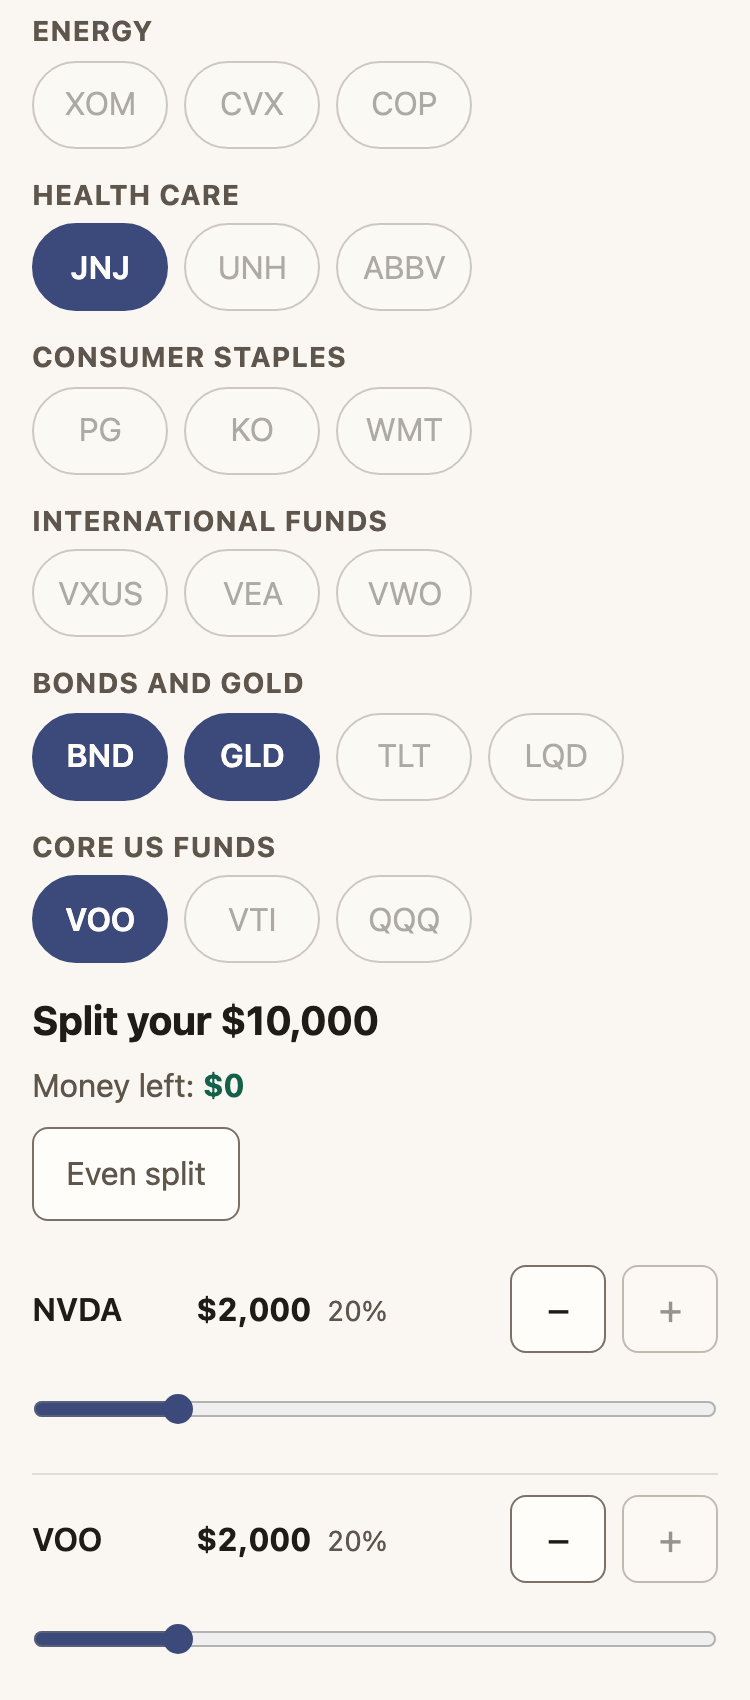
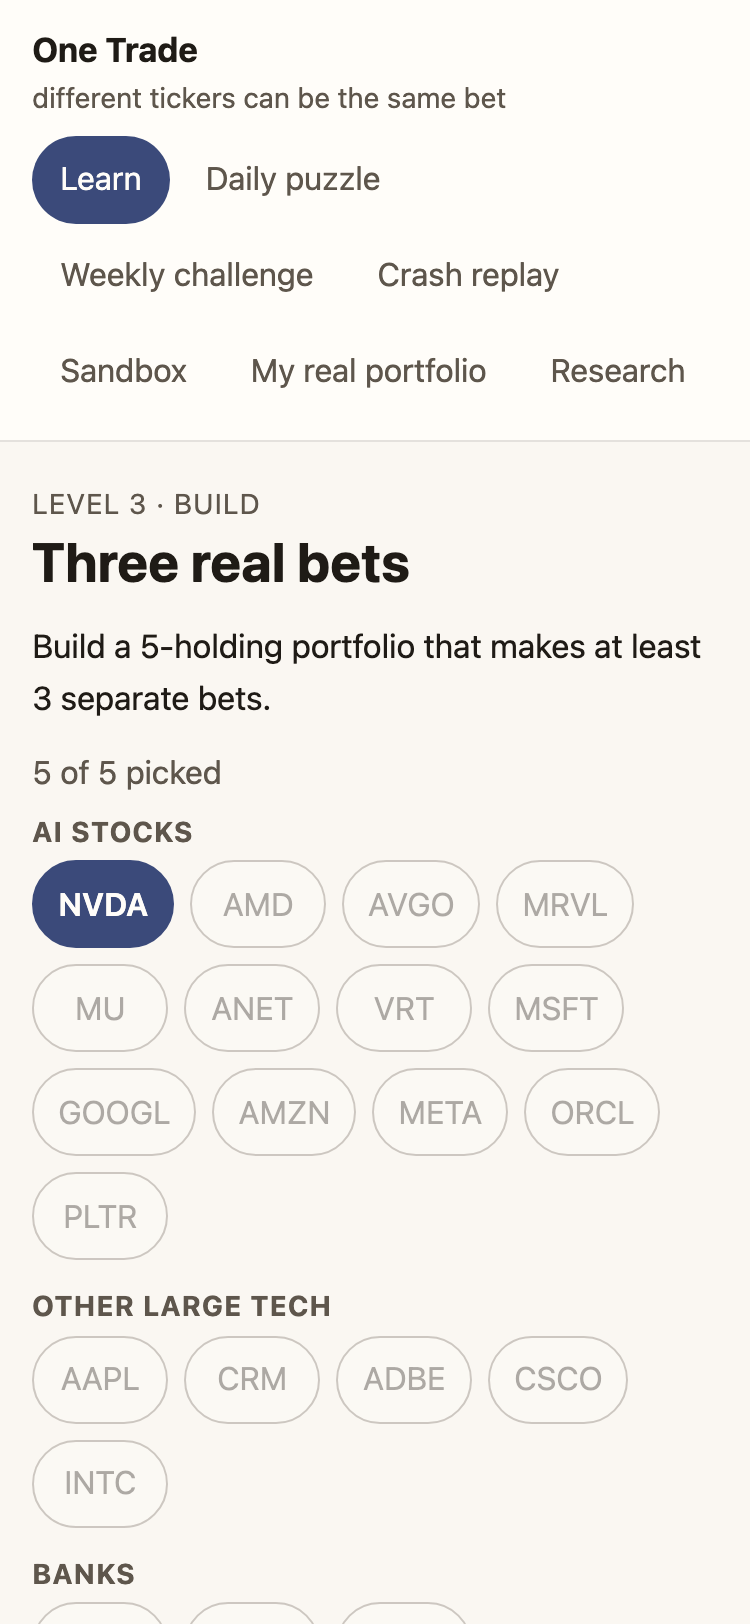
Launch review: fix the number line's labels, the star-rule grammar, and date the window
The number line's labels, dots and track all sat in one vertical band -
labels at top 24px against dots spanning 26 to 50 - so the only thing
keeping a label off a marker was a 6px nudge against a dot reaching
12px either side of its centre. A label's width depends on the number
in it, so no horizontal offset fixes that in general; the labels move
to their own band at top 56px, below the dots and the threshold tick.

Checked first, in a real browser: dev_checks.mjs now sweeps twelve
guess/answer pairs at 375px and 1280px and intersects every box. 0
clear and 24 overlapping before, 24 clear and 0 overlapping after. The
pairs include equal values, a hair apart, opposite ends, both edges and
both on the threshold tick.

Star rules were broken in two frames, not one: "1 star for make a
guess" as reported, and "2 stars needed named the right bucket" on
four levels. Fixed in levels.json with gerunds, which read correctly in
all five frames js/game.js uses. Two new tests hold the rule rather
than the strings.

shots.mjs gains --scroll-top so a --fold capture opens at the top of a
screen rather than wherever the scene's last click left it; both README
screenshots retaken with it and with the label fix.

docs/PRD.md now dates the launch window - launch 26 November 2026,
collection closes 25 January 2027, last safe export 14 February 2027 -
and notes that /guess went live a day after Pages, so the window is a
day conservative.

diff --git a/tests/levels.test.js b/tests/levels.test.js
@@ -740,3 +740,60 @@ test('the named level 6 builds still give the answers written down beside them',
     'the same shape with different stocks in it should be several times apart');
   assert.equal(LEVEL6_BUILDS.length, 6);
 });
+
+// ------------------------------------------------- the star rules, as sentences
+//
+// THE STRINGS ARE NOT READ ALONE. js/game.js drops every `says` into five
+// different sentence frames - "1 star for X", "2 for X", "2 stars needed X",
+// "N needs X" and "No stars this time: X is what this level needs" - so a value
+// that reads fine by itself can still be ungrammatical in all five. Level 2's
+// "make a guess" rendered as "1 star for make a guess", and levels 1, 4, 5 and
+// 6 rendered "2 stars needed named the right bucket".
+//
+// THE RULE: a `says` value is a noun phrase, so it fits after "for", after
+// "needed", and in front of "is what this level needs". In practice that means
+// it opens with a determiner, a preposition, a number word - or a gerund, which
+// is how a verb becomes a noun phrase.
+
+/** Words a noun phrase may open with here. Not a grammar, a house style. */
+const PHRASE_OPENERS = new Set([
+  'a', 'an', 'the', 'no', 'any', 'all', 'both', 'each', 'every', 'half',
+  'at', 'within', 'under', 'over', 'above', 'below', 'between',
+  'one', 'two', 'three', 'four', 'five', 'six', 'seven', 'exactly', 'nothing',
+]);
+
+/** Every `says` in levels.json, with a name saying where it came from. */
+function everySays(doc) {
+  const found = [];
+  for (const level of doc.levels) {
+    if (level.pass?.says) found.push({ where: `level ${level.id} pass`, says: level.pass.says });
+    for (const band of ['two', 'three']) {
+      const says = level.stars?.[band]?.says;
+      if (says) found.push({ where: `level ${level.id} stars.${band}`, says });
+    }
+  }
+  if (doc.weekly?.pass?.says) found.push({ where: 'the weekly challenge', says: doc.weekly.pass.says });
+  return found;
+}
+
+test('every star rule reads as a noun phrase, so it fits every frame it is dropped into', () => {
+  const found = everySays(LEVELS);
+  assert.ok(found.length >= 15, `expected every level's rules, found ${found.length}`);
+  for (const { where, says } of found) {
+    const first = says.split(/\s+/)[0].toLowerCase();
+    const ok = PHRASE_OPENERS.has(first) || first.endsWith('ing');
+    assert.ok(ok, `${where}: "${says}" opens with "${first}", which reads wrong as `
+      + `"1 star for ${says}" and as "2 stars needed ${says}"`);
+  }
+});
+
+test('no star rule opens with a bare or past-tense verb, the two that broke before', () => {
+  // The exact two shapes that shipped, named so a regression is recognisable
+  // rather than merely caught: an imperative ("make") and a past participle
+  // ("named"). Both read as instructions rather than as things a star is for.
+  for (const { where, says } of everySays(LEVELS)) {
+    assert.doesNotMatch(says, /^(make|name|guess|pick|build|get|be|keep)\b/i,
+      `${where}: "${says}" is an instruction, not a noun phrase`);
+    assert.doesNotMatch(says, /^\w+ed\b/i, `${where}: "${says}" opens in the past tense`);
+  }
+});

diff --git a/css/style.css b/css/style.css
@@ -1216,7 +1216,7 @@ label.lede { display: block; }
    inside it and a collapsing box would stack them on the number above. */
 .numberline {
   position: relative;
-  height: 86px;
+  height: 98px;
   margin: 22px 2px 0;
 }
 .numberline-track {
@@ -1262,10 +1262,21 @@ label.lede { display: block; }
    where it sits relative to its own dot: translateX pushes the whole box
    clear of the anchor point first, so two labels sharing one anchor (the
    close case) start from either side of it and never cross back over it,
-   whatever their own widths are. */
+   whatever their own widths are.
+
+   AND THEY SIT IN THEIR OWN BAND, BELOW EVERYTHING ELSE, which is the only
+   reason a label cannot land on a marker or on the line. They used to be at
+   top 24px - inside the same vertical band as the dots (26 to 50) and the
+   track (34 to 37) - so the ONLY thing keeping a label off them was a 6px
+   horizontal nudge, against a dot that reaches 12px either side of its own
+   centre. Every one of the 24 cases scripts/dev_checks.mjs now sweeps
+   overlapped something. Horizontal offsets cannot fix that in general,
+   because a label's width depends on the number printed in it: the bands
+   have to be separate. The threshold tick ends at 52px, so 56px clears
+   everything above with room to spare. */
 .numberline-label {
   position: absolute;
-  top: 24px;
+  top: 56px;
   font-size: 0.75rem;
   white-space: nowrap;
   color: var(--text-secondary);

diff --git a/tests/game.test.js b/tests/game.test.js
@@ -244,7 +244,7 @@ test('a 3-star reveal names all three bands and asks for nothing more', () => {
 
 test('the explanation for level 1 uses its bucket band, not a bets band', () => {
   const text = starsExplanation(levelById(LEVELS, 1), { passed: true, stars: 2 });
-  assert.match(text, /named the right bucket/);
+  assert.match(text, /naming the right bucket/);
   assert.match(text, /within 0\.10 of the real correlation/);
 });
 

diff --git a/BUILD_LOG.md b/BUILD_LOG.md
@@ -5027,3 +5027,93 @@ than one with an honest gap in it.
 1,187 tests pass.
 
 Educational, not investment advice.
+
+## Launch review, and three things it found, 27 November 2026 (session 2.31)
+
+### The dates were never dates
+
+docs/PRD.md said "60 days after launch" and "day 80" and nothing anywhere
+turned either into a date. Both are now in a table at the top of "Launch is
+done when": launch **26 November 2026**, collection closes **25 January
+2027**, last safe export **14 February 2027**.
+
+**And the launch date is a day earlier than collection could have started.**
+Pages served the site on the 26th; the Worker's `/guess` route only went live
+on the 27th, so no guess record can predate it. Keeping launch at the 26th
+makes the 60-day window close a day sooner than it strictly has to, which is
+the conservative direction, so it stands - but it is written down rather than
+left as a one-day discrepancy for somebody to find in the analysis.
+
+### 1. Every label on the number line overlapped something
+
+The bug report named three symptoms. All three were the same cause, and it
+was worse than reported: **labels, dots and the line all sat in one vertical
+band.** Labels were at `top: 24px`, dots at 26 to 50, the track at 34 to 37.
+The only thing keeping a label off a dot was a 6px horizontal nudge - against
+a dot that reaches 12px either side of its own centre. Hence "Jour guess".
+
+**A label's width depends on the number printed in it, so no horizontal
+offset fixes this in general.** The bands have to be separate. Labels moved to
+`top: 56px`, below the dots and below the threshold tick (which ends at 52),
+and `.numberline` grew from 86px to 98px to hold them.
+
+**The check had to come before the fix, and it had to be a real browser.**
+`scripts/dev_checks.mjs` gained a third section: render the number line across
+twelve guess-and-answer pairs at 375px and 1280px, read every box with
+`getBoundingClientRect`, and intersect them - each label against both markers,
+the line, the threshold tick, the "needed" label, the other label, and the
+line's own box. Before the fix: **0 clear, 24 with an overlap**. After:
+**24 clear, 0 with an overlap**. The pairs include both marks on one point,
+a hair apart, opposite ends, both hard against each edge, and both exactly on
+the threshold tick.
+
+This is session 2.24's lesson a third time. A stub DOM cannot answer a layout
+question, and a screenshot of ONE pair cannot either - which is exactly how
+this shipped: the pair in the screenshot looked fine, and the README was about
+to ship a picture of the bug.
+
+### 2. The star rules were ungrammatical in two frames, not one
+
+"1 star for make a guess" was the reported one. Reading every `says` through
+every frame js/game.js drops it into found a second: levels 1, 4, 5 and 6 all
+rendered **"2 stars needed named the right bucket"**.
+
+Fixed in levels.json, where the wording belongs: `make a guess` →
+`making a guess` (level 2 and the weekly), `named the right bucket` →
+`naming the right bucket` (four levels). A gerund is a noun phrase, so it
+reads after "for", after "needed", and in front of "is what this level
+needs" - all five frames, with no change to any of them.
+
+**Two tests now hold the rule rather than the strings**, so the next level
+added cannot reintroduce it: every `says` must open with a determiner, a
+preposition, a number word or a gerund; and none may open with a bare
+imperative or a past participle, named as the exact two shapes that shipped.
+Both failed before the fix.
+
+### 3. `--scroll-top`
+
+`scripts/shots.mjs` captures the `--fold` shot wherever the scene's last click
+left the page, which for a scene that picks five tickers is mid-list with a
+half-cut row of chips at the top. Honest for a design review - it is what the
+player is looking at - and wrong for a README, where the picture introduces
+the screen rather than resumes it. `--scroll-top` scrolls to the top and waits
+a frame (js/screen.js restores remembered positions on redraw, so the wait is
+behaviour and not decoration) before the viewport shot. The full-page shot is
+untouched.
+
+Both README screenshots retaken with it: the build screen now opens on
+"LEVEL 3 · BUILD / Three real bets" and its task line, and the reveal shows
+the number line with "2.06" and "your guess 3.2" sitting cleanly in their own
+band below the dots.
+
+### What the review could not tick
+
+**"Levels 1 to 3 can be played in under 10 minutes on a mid-range phone"
+has never been measured.** Nothing in this log claims it was. It needs a
+person, a real mid-range phone and a stopwatch; the automated checks run at
+375px in a desktop browser, which answers a different question. Left unticked
+and named as unmeasured rather than assumed from the design review.
+
+1,189 tests pass.
+
+Educational, not investment advice.

diff --git a/docs/PRD.md b/docs/PRD.md
@@ -384,6 +384,16 @@ see milestone 3 step 5.
 
 The project is done when students have played it, at least one instructor has used it in a session, and changes have shipped because of player feedback. Being live is not enough.
 
+### The launch window, as dates
+
+Written down on 27 November 2026, because "60 days after launch" and "day 80" are not dates until somebody works them out, and all three of these decide when something has to happen.
+
+| What | Date | Where it comes from |
+| --- | --- | --- |
+| **Launch** | **26 November 2026** | GitHub Pages first served the site from `main`. The Worker's `/guess` route went live the next day, 27 November, so no guess record can predate it — the window below is therefore one day conservative, in the safe direction |
+| **Collection closes** | **25 January 2027** | Launch plus the 60 days PREREG.md registers for Hypothesis 3. No guess record after this date enters the registered test |
+| **Last safe export** | **14 February 2027** | Launch plus 80 days. Workers Analytics Engine keeps data about three months, so the rows must be out of it and into a file before then — `npm run export`, weekly from launch, not once at the end |
+
 ### Launch is done when
 
 - ☑ The prereg tag exists, and its timestamp comes before the first commit containing real price data.
@@ -638,7 +648,7 @@ enter Hypothesis 3.
 
 Follow the 8-week plan above. Log weekly: players by source code, levels reached, responses, top complaint, change shipped. Ship at least two changes that came from players.
 
-**Run `scripts/export_guesses.mjs` weekly during the 60-day collection window, with day 80 after launch as the last safe date.** Workers Analytics Engine retains data for about three months; the registered 60-day collection window already uses most of that margin. A weekly run means no single missed run can lose more than a week of rows even if day 80 is missed too, and the script is idempotent - re-exporting is always a full, fresh pull of whatever is still there, never an append. Added 26 November 2026, BUILD_LOG.md session 2.29.
+**Run `npm run export` weekly from launch until 25 January 2027, and no later than 14 February 2027.** Workers Analytics Engine retains data for about three months; the registered 60-day collection window already uses most of that margin. A weekly run means no single missed run can lose more than a week of rows even if the last safe date is missed too, and the script is idempotent - re-exporting is always a full, fresh pull of whatever is still there, never an append. See "The launch window, as dates" above. Added 26 November 2026, BUILD_LOG.md session 2.29; dated 27 November 2026.
 
 **Check:** the success targets table is filled in with real numbers, met or not, and Hypothesis 3 has a verdict.
 

diff --git a/README.md b/README.md
@@ -12,7 +12,7 @@ It teaches one idea: **different tickers can be the same bet.** An S&P 500 fund,
 
 | Build it | Find out |
 | --- | --- |
-| <img src="docs/images/level-3-build.png" alt="Level 3's build screen: ticker chips grouped by sector with NVDA, VOO, BND, GLD and JNJ selected, above sliders splitting $10,000 evenly between them" width="380"> | <img src="docs/images/level-3-reveal.png" alt="Level 3's reveal: the portfolio makes 2.06 separate bets against a guess of 3.2, drawn on a number line, with the sentence 'Out by 1.1' and no stars awarded" width="380"> |
+| <img src="docs/images/level-3-build.png" alt="Level 3's build screen: the heading 'Three real bets', the task 'Build a 5-holding portfolio that makes at least 3 separate bets', and ticker chips grouped by sector with NVDA selected" width="380"> | <img src="docs/images/level-3-reveal.png" alt="Level 3's reveal: the portfolio makes 2.06 separate bets against a guess of 3.2, drawn on a number line with the threshold marked '3.0 needed', below it the sentence 'Out by 1.1' and no stars awarded" width="380"> |
 | Pick holdings and split $10,000 between them. | Guess first, then see the real answer worked out from price history. |
 
 ---
